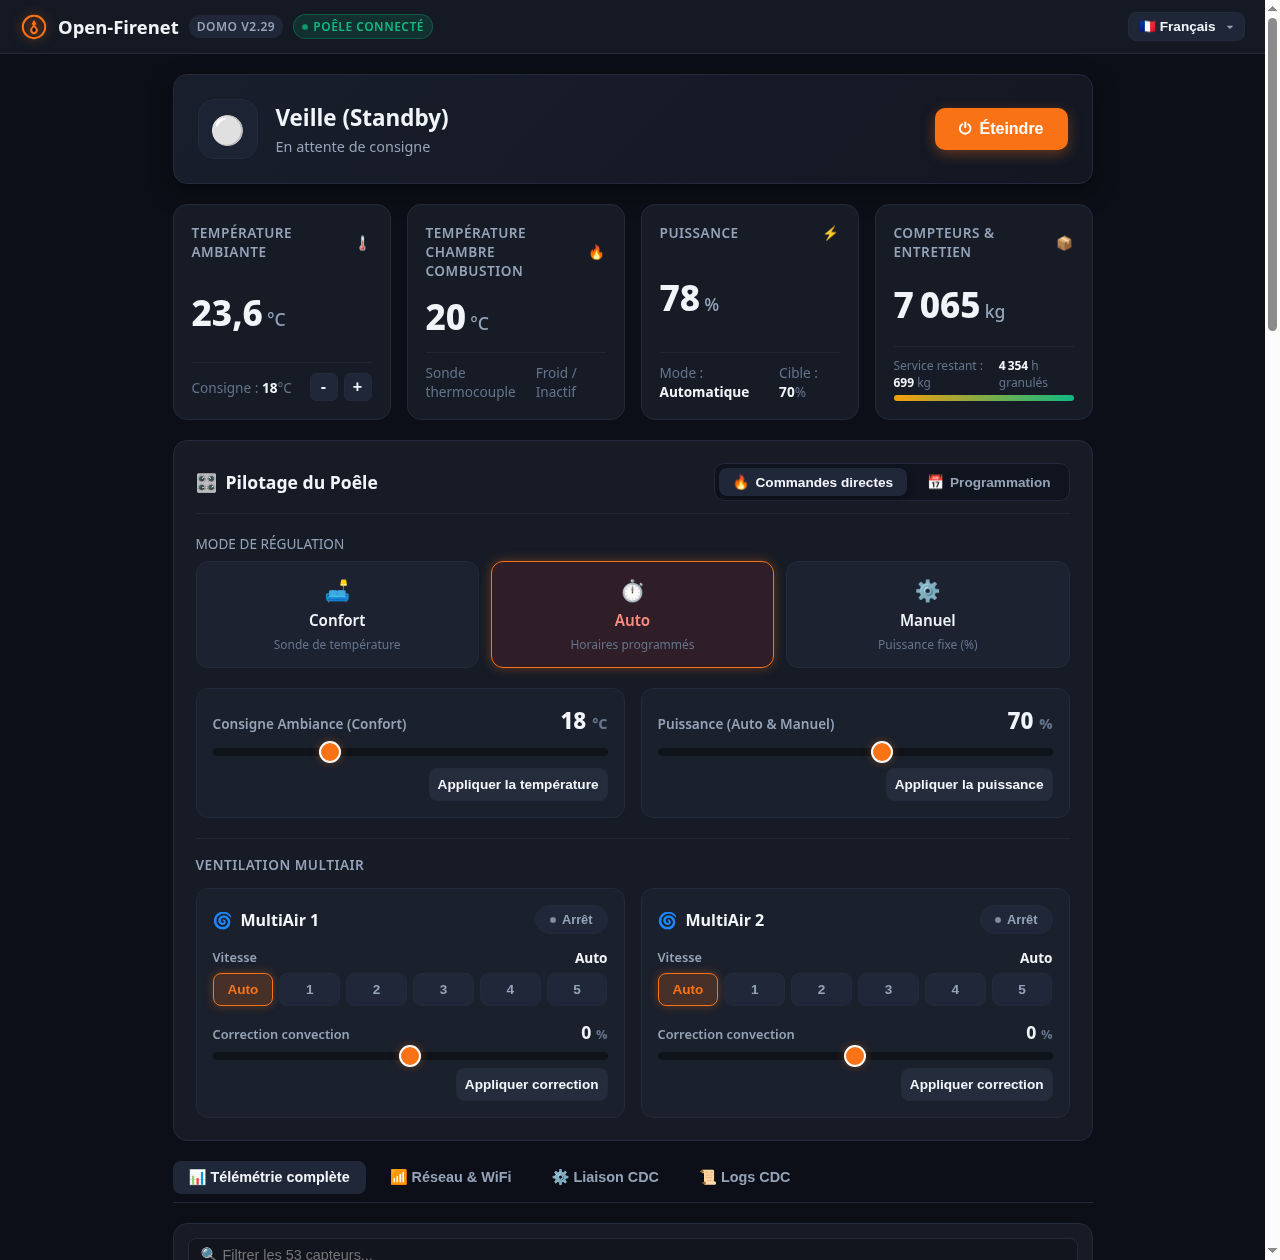
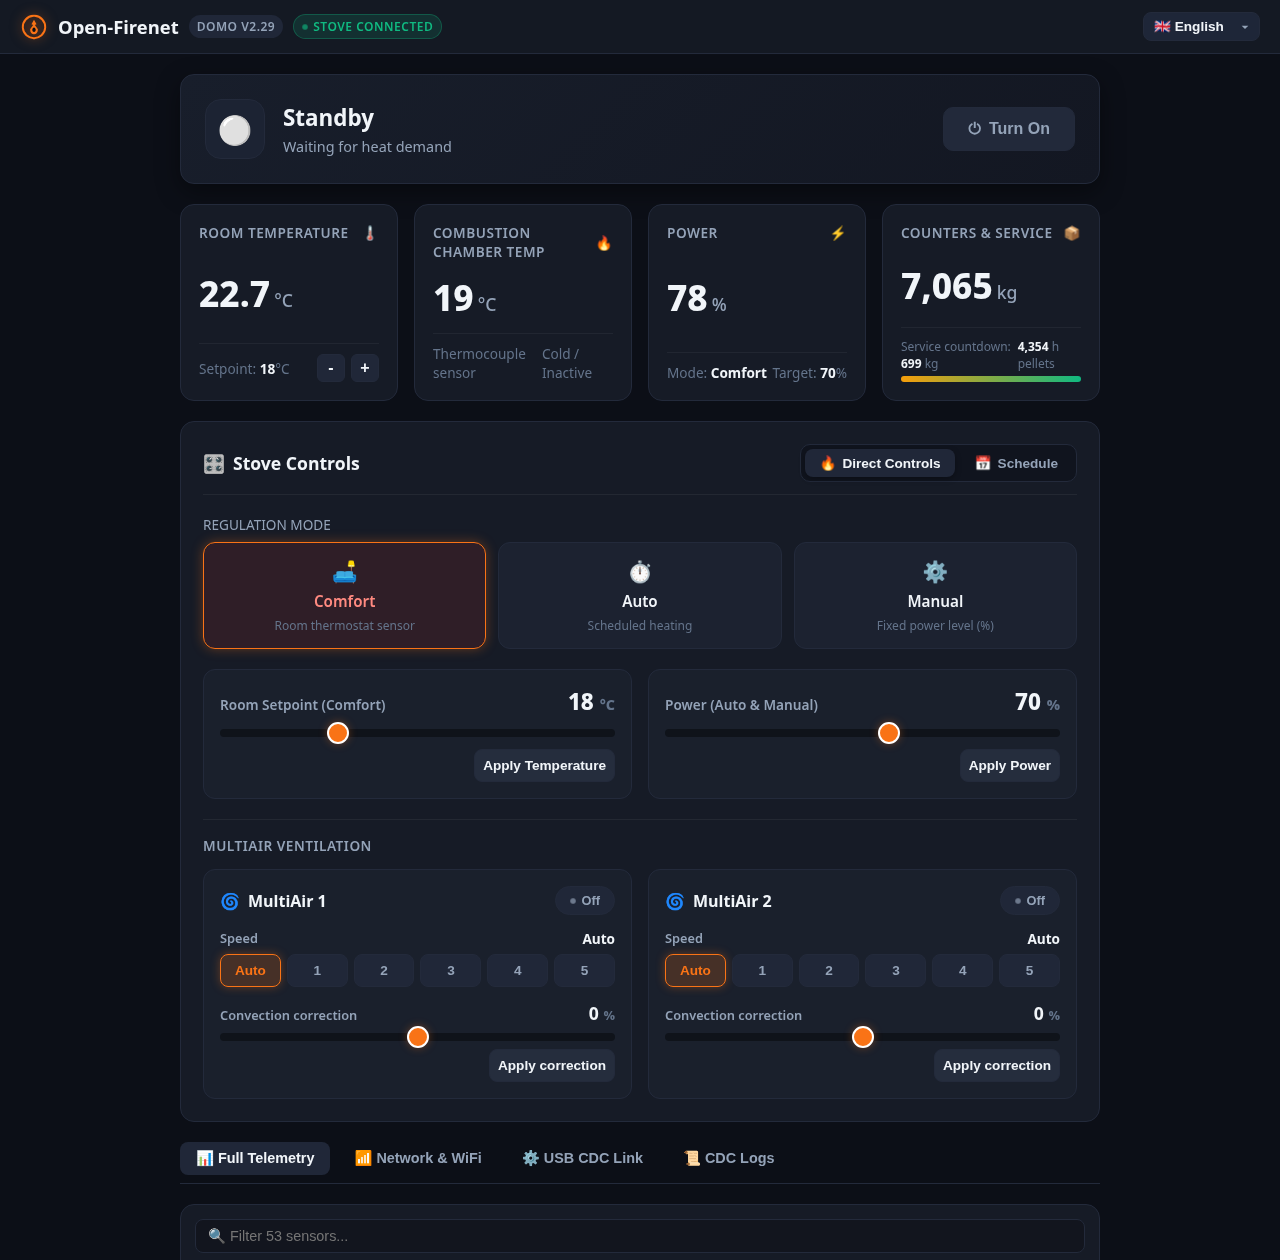
docs: replace French UI screenshots with English captures and translate README labels
- Update desktop controls, weekly heating schedule, and mobile screenshots to English UI
- Translate residual French strings in README Web interface section
- Clean up alt text and section headings

diff --git a/README.md b/README.md
@@ -169,7 +169,7 @@ Two ways to provision:
 ### Option A — Captive Portal (smartphone or PC, recommended)
 1. Connect your phone or laptop to the Wi-Fi network **`Open-Firenet-Setup`**.
 2. The captive portal opens automatically (or browse to `http://open-firenet.local` or `http://192.168.4.1`).
-3. Select your 2.4 GHz home Wi-Fi from the scanned networks list, enter your Wi-Fi password, and click **Enregistrer / Connect**.
+3. Select your 2.4 GHz home Wi-Fi from the scanned networks list, enter your Wi-Fi password, and click **Save / Connect**.
 4. The dongle reboots, connects to your LAN, and becomes available at **`http://open-firenet.local`**.
 
 ### Option B — Serial command (for lab / debugging)
@@ -186,40 +186,40 @@ The SSID ends at the first `:`; everything after it is the password (so a passwo
 Once connected, open **`http://open-firenet.local`** in any web browser (or use the device IP assigned by your router).
 
 <p align="center">
-  <img src="assets/ui-desktop-controls.png" alt="Open Firenet Web UI - Commandes directes & MultiAir" width="760">
+  <img src="assets/ui-desktop-controls.png" alt="Open Firenet Web UI - Direct Controls & MultiAir" width="760">
 </p>
 
 - **Modern glassmorphism UI**: mobile-first, responsive dark theme.
-- **Language selector with flags**: 🇫🇷 Français / 🇬🇧 English instant toggle.
+- **Language selector with flags**: 🇬🇧 English / 🇫🇷 Français / 🇩🇪 Deutsch instant toggle.
 - **Live stove status header**: operational state badges (Standby, Ignition, Start, Regulation, Cleaning, Burnoff, Splitlog), room temperature, flame temperature, Wi-Fi RSSI.
-- **Control Deck ("Pilotage du Poêle")** with segmented navigation:
-  - **🔥 Commandes directes**:
+- **Control Deck ("Stove Controls")** with segmented navigation:
+  - **🔥 Direct Controls**:
     - Power **ON / OFF** toggle
-    - **Operating Mode**: Manuel, Auto (Thermostat), Confort
-    - **Target Room Temperature**: slider & stepper 14.0°C – 28.0°C (in Confort mode)
-    - **Heating Power**: slider & stepper 30% – 100% (in Manuel / Auto modes)
+    - **Operating Mode**: Manual, Auto (Thermostat), Comfort
+    - **Target Room Temperature**: slider & stepper 14.0°C – 28.0°C (in Comfort mode)
+    - **Heating Power**: slider & stepper 30% – 100% (in Manual / Auto modes)
     - **MultiAir 1 & 2** (dynamically displayed for MultiAir-equipped models):
       - Fan On / Off toggle
       - Speed regulation: **Auto** mode vs **Manual** levels 1 to 5
       - Convection trim / correction slider: **-30% to +30%**
 
 <p align="center">
-  <img src="assets/ui-desktop-schedule.png" alt="Open Firenet Web UI - Programmation hebdomadaire" width="760">
+  <img src="assets/ui-desktop-schedule.png" alt="Open Firenet Web UI - Weekly Heating Schedule" width="760">
 </p>
 
-  - **📅 Programmation (Chauffage hebdomadaire)**:
-    - Independent schedule activation toggle (**Activer la programmation**) — works across all heating modes
-    - **Température de maintien (Éco)**: setback temperature applied outside scheduled heating slots (10.0°C – 25.0°C)
+  - **📅 Weekly Heating Schedule**:
+    - Independent schedule activation toggle (**Heating schedule active**) — works across all heating modes
+    - **Setback Temperature (Eco)**: setback temperature applied outside scheduled heating slots (10.0°C – 25.0°C)
     - **14 Weekly time slots** (2 slots per day, Monday to Sunday):
       - Native HTML5 time pickers (`HH:MM` start and end)
       - Quick copy actions (e.g. Monday $\rightarrow$ Weekdays or Full Week)
       - Per-day clear button (quick reset)
       - Single-click bulk apply with immediate CDC synchronization
 - **Supervision & Diagnostics Deck**:
-  - **Télémétrie**: live metrics table (temperatures, combustion chamber, pellet consumption, auger & exhaust fan RPM, runtime hours, service countdown, error and warning bitmasks)
-  - **Réseau & Wi-Fi**: IP, MAC address, signal strength, AP scan, Wi-Fi reconfiguration & reset
-  - **Liaison CDC**: USB CDC state, packet counters, protocol revision
-  - **Logs CDC**: collapsible real-time console streaming raw bidirectional USB packets with sanitized WiFi credentials
+  - **Full Telemetry**: live metrics table (temperatures, combustion chamber, pellet consumption, auger & exhaust fan RPM, runtime hours, service countdown, error and warning bitmasks)
+  - **Network & WiFi**: IP, MAC address, signal strength, AP scan, Wi-Fi reconfiguration & reset
+  - **USB CDC Link**: USB CDC state, packet counters, protocol revision
+  - **CDC Logs**: collapsible real-time console streaming raw bidirectional USB packets with sanitized WiFi credentials
 
 ### Mobile Interface
 
